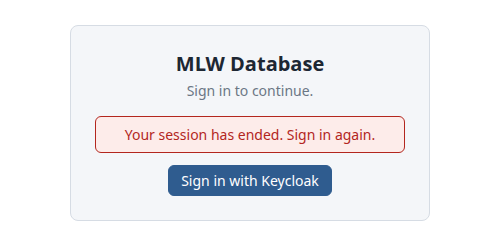
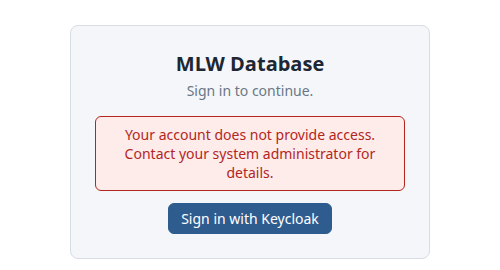
Show a clearer message when the account has no access
When the API refuses a login that it never accepted (for example the user
lacks OIDC_REQUIRED_ROLE), the login page now says "Your account does not
provide access. Contact your system administrator for details." A login that
worked and is later refused still shows "Your session has ended. Sign in
again." Whether a login was accepted is kept in the tab's session storage.
The Keycloak user guide is updated to match.

Changed region(s): [[0.15, 0.196, 0.87, 0.896], [0.15, 0.084, 0.87, 0.112], [0.15, 0.952, 0.84, 0.98]]

diff --git a/doc/generator/gen_keycloak.js b/doc/generator/gen_keycloak.js
@@ -188,7 +188,7 @@ H1('5. Controlling Who May Use the Application');
 para('By default every user of the mlw realm may use the application. To allow only users who have the role mlw-user, set OIDC_REQUIRED_ROLE in the .env file and restart the application:');
 code('# .env\nOIDC_REQUIRED_ROLE=mlw-user', 'Require the role');
 code('docker compose up -d app', 'Restart the application');
-para('A user without the role can still sign in at Keycloak, because the account is valid, but the application refuses every request. The person lands on the login page again, with the message “Your session has ended. Sign in again.” Signing in again does not help. The fix is to give the user the role (section 4.4).');
+para('A user without the role can still sign in at Keycloak, because the account is valid, but the application refuses every request. The person lands on the login page again, with the message “Your account does not provide access. Contact your system administrator for details.” Signing in again does not help. The fix is to give the user the role (section 4.4).');
 shot('app-no-role.png', 'A user without the required role is sent back to the login page');
 para('Leave OIDC_REQUIRED_ROLE empty to allow everyone in the realm.');
 
@@ -234,8 +234,8 @@ grid([2700, 3300, 3360], ['What you see', 'Likely cause', 'What to do'], [
   ['The login page appears but the Keycloak page says the address cannot be reached, or the realm is not found', 'Keycloak is still starting, or the realm was not created.', 'Wait until http://localhost:8180/realms/mlw answers. If it never does, check docker compose logs keycloak.'],
   ['Keycloak says “Invalid parameter: redirect_uri”', 'The application was opened at an address Keycloak does not know. Local development accepts http(s)://localhost:8090 only.', 'Open http://localhost:8090. To use another address, add it under Clients, mlw-app, Valid redirect URIs and Web origins, and Valid post logout redirect URIs.'],
   ['“Invalid username or password”', 'Wrong password, or the account is disabled.', 'Check the user in the admin console; reset the password (section 4.3) or switch Enabled on.'],
-  ['“Your session has ended. Sign in again.” right after signing in', 'The user does not have the role required by OIDC_REQUIRED_ROLE, or the application cannot reach Keycloak to check the login.', 'Give the user mlw-user (section 4.4). If other users work, that is the cause; if nobody can sign in, check docker compose logs app.'],
-  ['“Your session has ended” after working for a while', 'The login could not be renewed, for example after 30 idle minutes.', 'Sign in again.'],
+  ['“Your account does not provide access. Contact your system administrator for details.” right after signing in', 'The user does not have the role required by OIDC_REQUIRED_ROLE, or the application cannot reach Keycloak to check the login.', 'Give the user mlw-user (section 4.4). If other users work, that is the cause; if nobody can sign in, check docker compose logs app.'],
+  ['“Your session has ended. Sign in again.” after working for a while', 'The login could not be renewed, for example after 30 idle minutes.', 'Sign in again.'],
   ['curl returns 401 with a token', 'The token expired (5 minutes), or it was issued by another realm or client.', 'Request a new token from the mlw realm with client_id=mlw-app.'],
   ['The realm file was changed but nothing happened', 'The realm is only created when it does not exist.', 'Use docker compose down -v to delete the data and start again, or change the setting in the admin console.'],
   ['The admin console says you are using a temporary admin user', 'The first administrator is temporary.', 'See section 7.'],

diff --git a/app/web/src/App.vue b/app/web/src/App.vue
@@ -3,7 +3,7 @@ import { computed, defineAsyncComponent, onMounted, ref, watch } from 'vue'
 import { api, ApiError, getToken, setToken } from './api.js'
 import RowForm from './RowForm.vue'
 import LoginView from './LoginView.vue'
-import { auth, initAuth, logout, userName } from './auth.js'
+import { auth, initAuth, loginAccepted, logout, markLoginAccepted, userName } from './auth.js'
 
 const SwaggerView = defineAsyncComponent(() => import('./SwaggerView.vue'))
 
@@ -31,9 +31,12 @@ const isKey = (c) => keyCols.value.includes(c.name)
 
 function fail(e) {
   if (e instanceof ApiError && e.status === 401 && auth.enabled) {
-    // the access token was refused or has expired: sign in again
+    // The API refused the access token. If it never accepted this login, the account has no access
+    // (for example it lacks the required role); otherwise the session has ended.
     auth.user = null
-    auth.error = 'Your session has ended. Sign in again.'
+    auth.error = loginAccepted()
+      ? 'Your session has ended. Sign in again.'
+      : 'Your account does not provide access. Contact your system administrator for details.'
   } else if (e instanceof ApiError && e.status === 401) {
     needToken.value = true
     error.value = 'This server needs an API token.'
@@ -47,6 +50,7 @@ async function loadTables() {
     const r = await api.tables()
     keyspace.value = r.keyspace
     tables.value = r.tables
+    markLoginAccepted()
     needToken.value = false
     error.value = ''
     const wanted = decodeURIComponent(location.hash.slice(1))

diff --git a/app/web/src/auth.js b/app/web/src/auth.js
@@ -13,6 +13,20 @@ export const auth = reactive({
 
 let manager = null
 
+// Whether the API has accepted this sign-in at least once. It tells "the account has no access"
+// (refused from the start) from "the session has ended" (refused after it worked). It is kept in
+// the tab's session storage so that it survives a reload, and is reset by every new sign-in.
+const ACCEPTED = 'mlw-login-accepted'
+export function loginAccepted() {
+  try { return sessionStorage.getItem(ACCEPTED) === '1' } catch { return false }
+}
+export function markLoginAccepted() {
+  try { sessionStorage.setItem(ACCEPTED, '1') } catch { /* ignore */ }
+}
+function resetLoginAccepted() {
+  try { sessionStorage.removeItem(ACCEPTED) } catch { /* ignore */ }
+}
+
 export const accessToken = () => (auth.user && !auth.user.expired ? auth.user.access_token : '')
 export const userName = () => auth.user?.profile?.preferred_username || auth.user?.profile?.name || auth.user?.profile?.sub || ''
 
@@ -50,6 +64,7 @@ async function start(cfg) {
     // back from the provider's login page
     let hash = ''
     try {
+      resetLoginAccepted()
       const u = await manager.signinRedirectCallback()
       auth.user = u
       hash = u.state?.hash || ''
@@ -70,6 +85,7 @@ export function login() {
 export async function logout() {
   const u = auth.user
   auth.user = null
+  resetLoginAccepted()
   await manager.removeUser()
   // ends the session at the provider too, then returns to this page
   await manager.signoutRedirect({ id_token_hint: u?.id_token })
